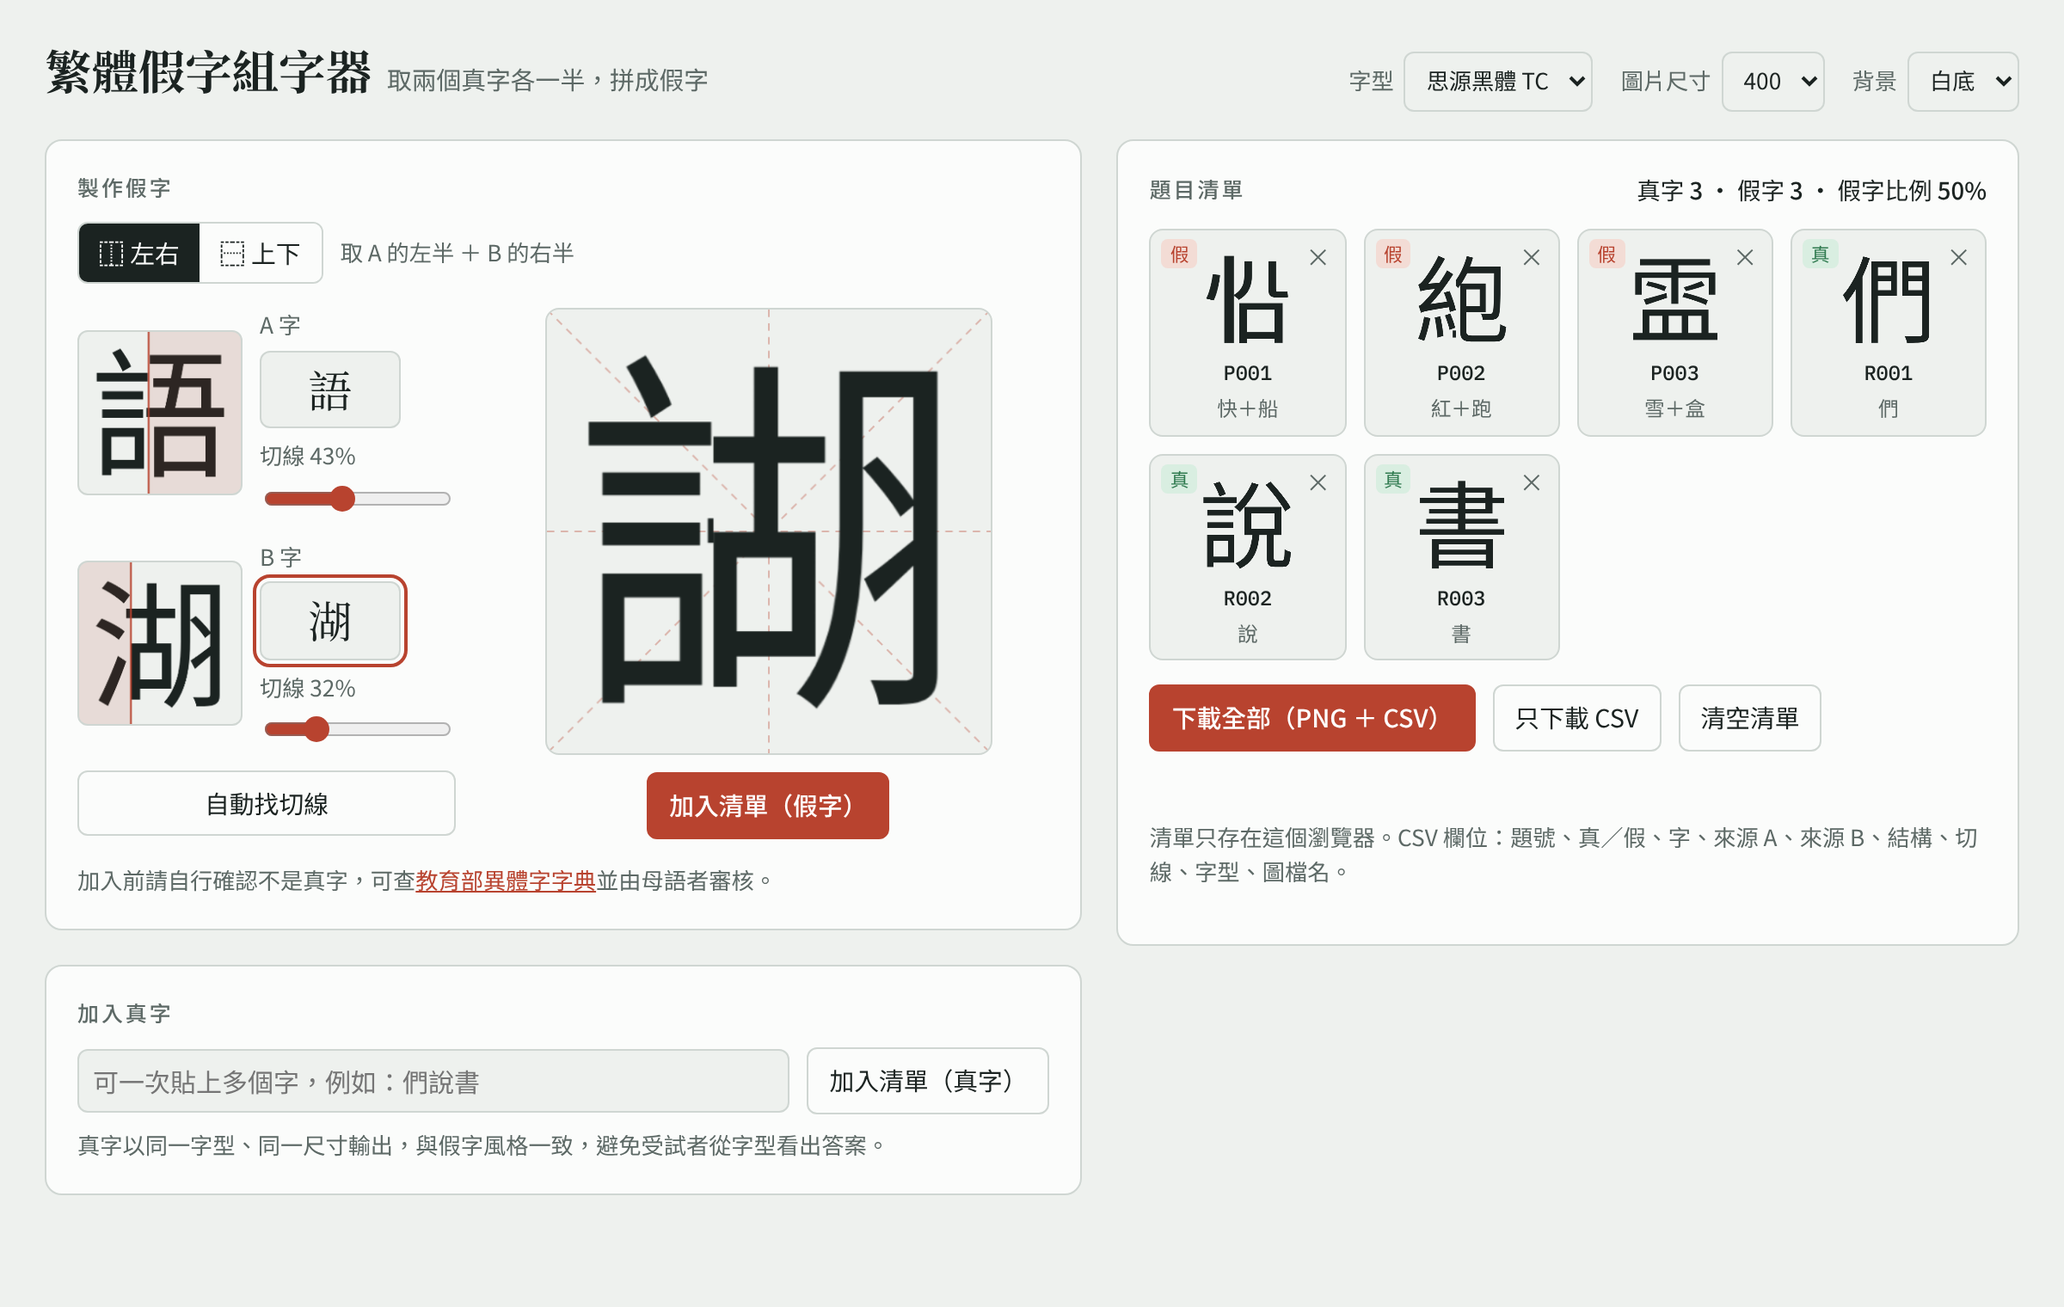
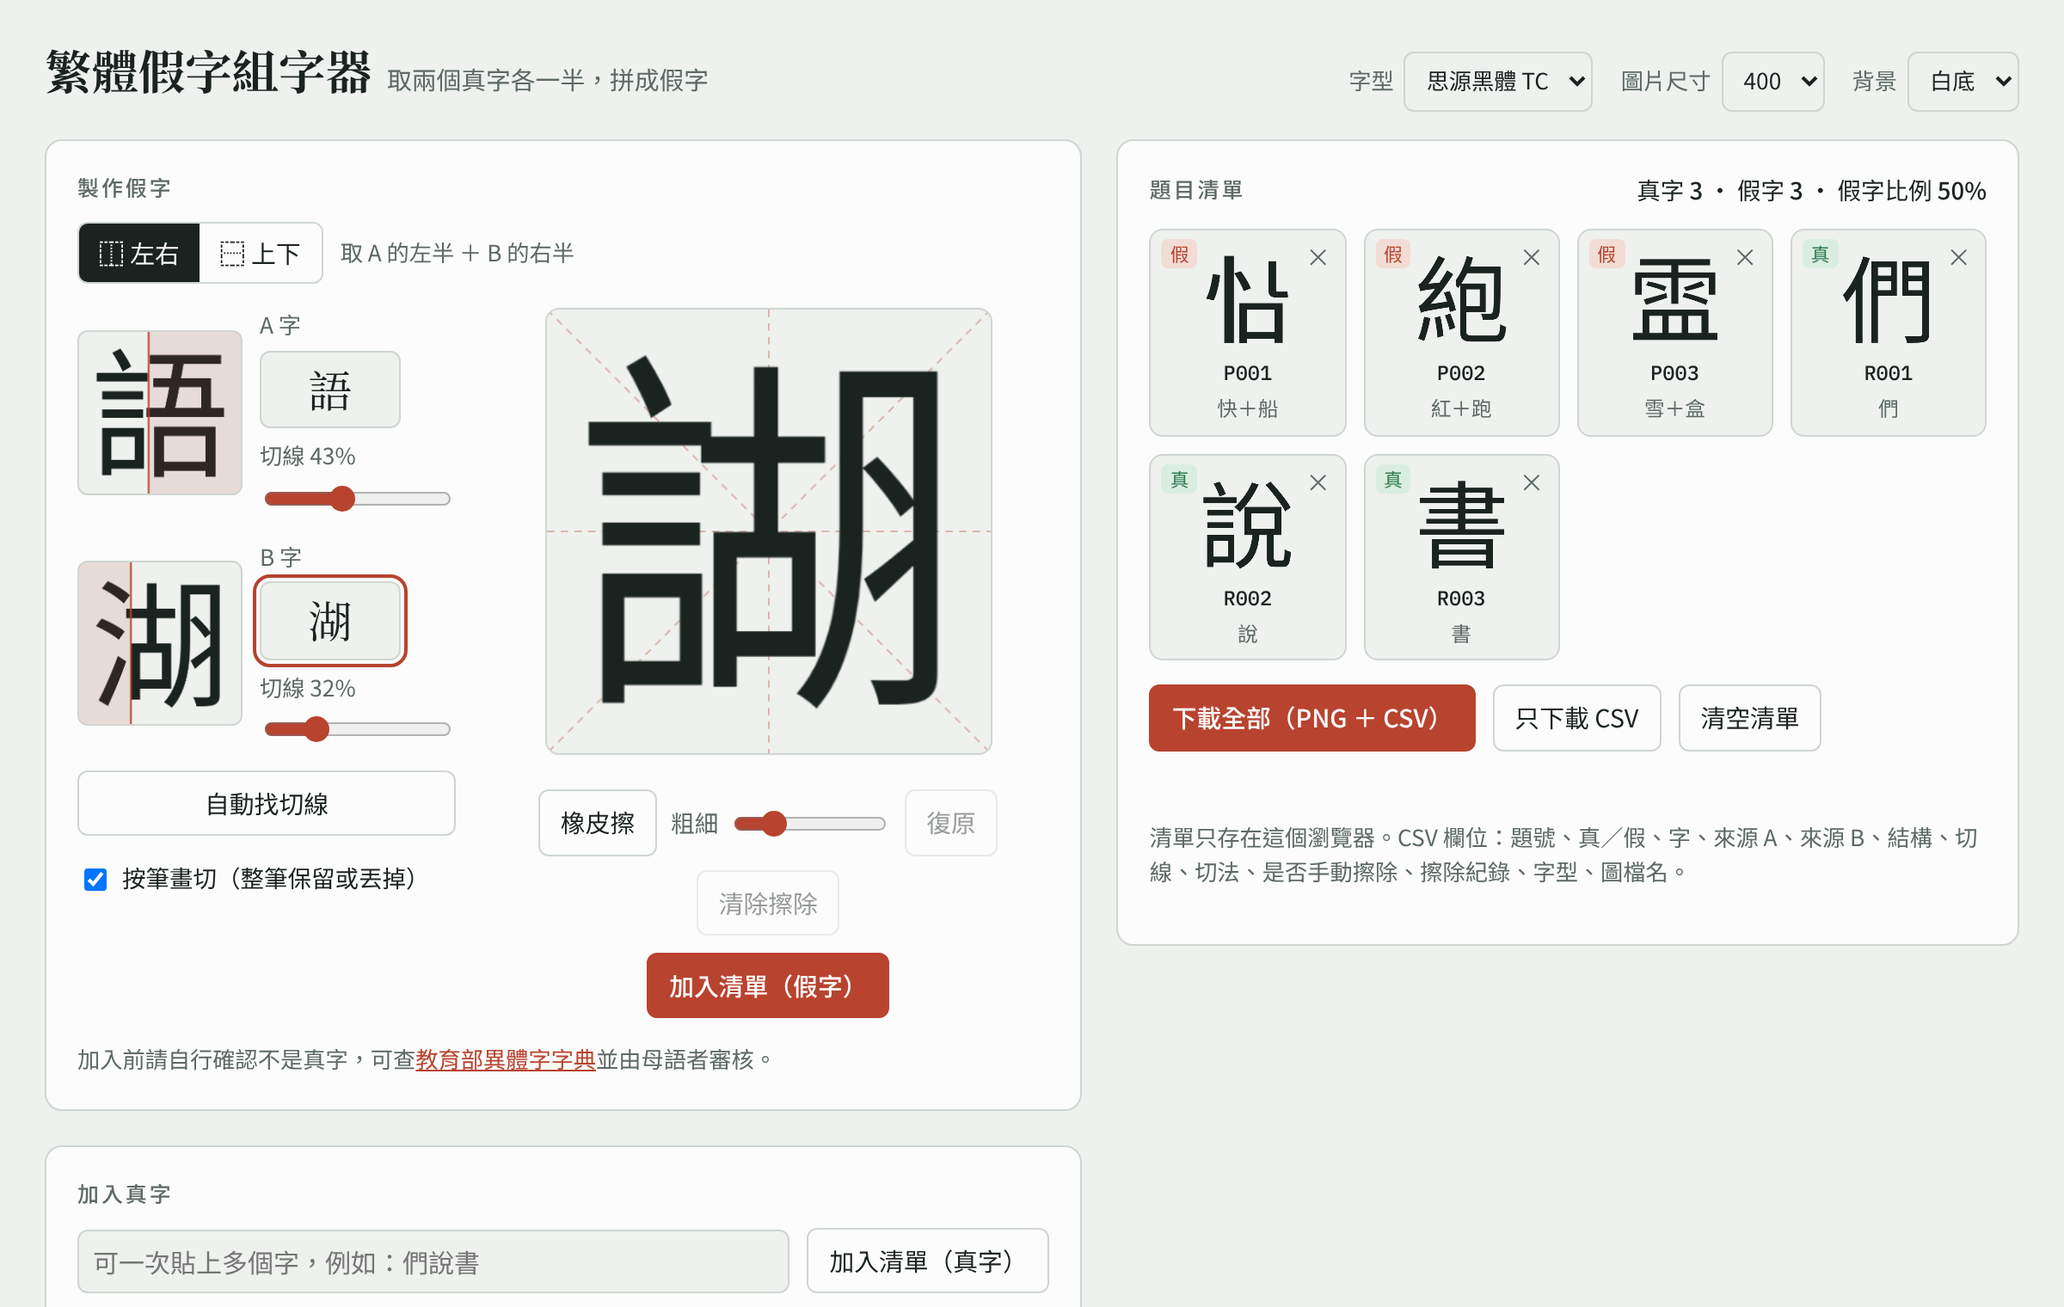
Pseudo-character maker: stroke cutting and eraser
Keep or drop each connected group of strokes whole instead of cutting
along a straight line, which removes fragments of the other component.
Warn when the cut passes through touching strokes. Add an eraser whose
strokes are saved with each item so exports are reproducible; record
cut mode and manual edits in the CSV.

Claude-Session: https://claude.ai/code/session_014HhAB2MiJ58BCttPMnsCBy

diff --git a/stimuli/tools/pseudo-character-maker/index.html b/stimuli/tools/pseudo-character-maker/index.html
@@ -79,6 +79,11 @@ details summary{cursor:pointer;font-size:.85rem;color:var(--muted)}
 .item .del{position:absolute;top:2px;right:2px;border:0;background:none;padding:2px 6px;color:var(--muted)}
 .item.flag{border-color:var(--zhu)}
 .empty{border:1px dashed var(--line);border-radius:8px;padding:22px;text-align:center;color:var(--muted);font-size:.9rem}
+.tools{display:flex;flex-wrap:wrap;gap:8px;align-items:center;justify-content:center}
+.tools input[type=range]{width:90px}
+.tools button[aria-pressed=true]{background:var(--ink);color:var(--sheet);border-color:var(--ink)}
+#cvOut.erasing{cursor:crosshair;touch-action:none}
+.check{display:flex;flex-direction:row;align-items:center;gap:6px;font-size:.86rem;color:var(--ink)}
 .status{min-height:1.4em;font-size:.86rem;color:var(--muted)}
 @media (prefers-reduced-motion:no-preference){button{transition:border-color .15s}}
 </style>
@@ -126,9 +131,17 @@ details summary{cursor:pointer;font-size:.85rem;color:var(--muted)}
               </div>
             </div>
             <button id="auto">自動找切線</button>
+            <label class="check"><input id="cutStroke" type="checkbox" checked> 按筆畫切（整筆保留或丟掉）</label>
           </div>
           <div class="out">
             <canvas id="cvOut" width="520" height="520" aria-label="組合結果"></canvas>
+            <div id="cutWarn"></div>
+            <div class="tools" role="group" aria-label="橡皮擦">
+              <button id="eraser" aria-pressed="false">橡皮擦</button>
+              <label class="check" style="color:var(--muted)">粗細<input id="brush" type="range" min="4" max="40" value="12"></label>
+              <button id="undoErase">復原</button>
+              <button id="clearErase">清除擦除</button>
+            </div>
             <button class="primary" id="addPseudo">加入清單（假字）</button>
           </div>
         </div>
@@ -157,7 +170,7 @@ details summary{cursor:pointer;font-size:.85rem;color:var(--muted)}
         <button id="clear">清空清單</button>
       </div>
       <div class="status" id="status" role="status" style="margin-top:8px"></div>
-      <p class="note">清單只存在這個瀏覽器。CSV 欄位：題號、真／假、字、來源 A、來源 B、結構、切線、字型、圖檔名。</p>
+      <p class="note">清單只存在這個瀏覽器。CSV 欄位：題號、真／假、字、來源 A、來源 B、結構、切線、切法、是否手動擦除、擦除紀錄、字型、圖檔名。</p>
     </section>
   </div>
 </div>
@@ -169,7 +182,7 @@ const $ = id => document.getElementById(id);
 const BIN = '⿰⿱⿴⿵⿶⿷⿸⿹⿺⿻', TER = '⿲⿳';
 const FONTS = { sans: '"Noto Sans TC"', serif: '"Noto Serif TC"' };
 const S = 400;
-const state = { struct: 'lr', font: 'sans', items: [], seq: { P: 0, R: 0 } };
+const state = { struct: 'lr', font: 'sans', items: [], seq: { P: 0, R: 0 }, erase: [], erasing: false };
 let downloads = null;
 
 // ---------- persistence (per-viewer convenience) ----------
@@ -205,13 +218,67 @@ function autoCut(ch, side) {
   for (let i = lo; i <= hi; i++) if (p[i] <= tol) cand.push(i);
   return Math.round(cand[Math.floor(cand.length / 2)] / S * 100);
 }
+// Keep the A (first) or B (second) side of a glyph.
+// mode 'stroke': every connected group of ink is kept or dropped whole, by which side most of it lies on;
+// only a group that lies clearly on both sides (two parts whose strokes touch) is cut along the line.
+// mode 'line': plain straight cut (items made before stroke cutting existed).
+const kcache = new Map();
+function kept(ch, cutPct, first, struct, mode) {
+  const key = [state.font, ch, cutPct, first, struct, mode].join('|'); if (kcache.has(key)) return kcache.get(key);
+  const src = glyph(ch), cut = cutPct / 100 * S, vert = struct === 'tb';
+  const img = src.getContext('2d', { willReadFrequently: true }).getImageData(0, 0, S, S), d = img.data;
+  const pos = i => vert ? (i / S | 0) : i % S;
+  const onKeep = i => first ? pos(i) < cut : pos(i) >= cut;
+  let mixed = 0;
+  if (mode === 'line') { for (let i = 0; i < S * S; i++) if (!onKeep(i)) d[i * 4 + 3] = 0; }
+  else {
+    const lab = new Int32Array(S * S), stack = [], decide = [0];
+    let n = 0;
+    for (let i0 = 0; i0 < S * S; i0++) {
+      if (lab[i0] || d[i0 * 4 + 3] <= 8) continue;
+      n++; lab[i0] = n; stack.push(i0); let tot = 0, keepPx = 0;
+      while (stack.length) {
+        const i = stack.pop(); tot++; if (onKeep(i)) keepPx++;
+        const x = i % S, y = i / S | 0;
+        for (let dy = -1; dy <= 1; dy++) for (let dx = -1; dx <= 1; dx++) {
+          const nx = x + dx, ny = y + dy; if (nx < 0 || ny < 0 || nx >= S || ny >= S) continue;
+          const j = ny * S + nx; if (!lab[j] && d[j * 4 + 3] > 8) { lab[j] = n; stack.push(j); }
+        }
+      }
+      const f = keepPx / tot;
+      decide[n] = f >= 0.8 ? 1 : f <= 0.2 ? 0 : 2; // 1 keep, 0 drop, 2 cut along the line
+      if (decide[n] === 2) mixed += Math.min(keepPx, tot - keepPx);
+    }
+    for (let i = 0; i < S * S; i++) {
+      const L = lab[i], k = L ? decide[L] : 2;
+      if (k === 0 || (k === 2 && !onKeep(i))) d[i * 4 + 3] = 0;
+    }
+  }
+  const c = document.createElement('canvas'); c.width = c.height = S; c.getContext('2d').putImageData(img, 0, 0);
+  const r = { c, mixed }; kcache.set(key, r); return r;
+}
+function applyErase(x, strokes) {
+  if (!strokes || !strokes.length) return;
+  x.save(); x.globalCompositeOperation = 'destination-out'; x.lineCap = x.lineJoin = 'round'; x.strokeStyle = x.fillStyle = '#000';
+  for (const st of strokes) {
+    x.lineWidth = st.r * 2; x.beginPath();
+    st.p.forEach(([px, py], i) => i ? x.lineTo(px, py) : x.moveTo(px, py));
+    if (st.p.length === 1) { x.arc(st.p[0][0], st.p[0][1], st.r, 0, Math.PI * 2); x.fill(); } else x.stroke();
+  }
+  x.restore();
+}
 // composite at S×S (black ink on transparent)
 function compose(it) {
   const c = document.createElement('canvas'); c.width = c.height = S; const x = c.getContext('2d');
   if (it.kind === 'real') { x.drawImage(glyph(it.ch), 0, 0); return c; }
-  const ga = glyph(it.a), gb = glyph(it.b), ca = it.cutA / 100 * S, cb = it.cutB / 100 * S, j = (ca + cb) / 2;
-  if (it.struct === 'lr') { x.drawImage(ga, 0, 0, ca, S, 0, 0, j, S); x.drawImage(gb, cb, 0, S - cb, S, j, 0, S - j, S); }
-  else { x.drawImage(ga, 0, 0, S, ca, 0, 0, S, j); x.drawImage(gb, 0, cb, S, S - cb, 0, j, S, S - j); }
+  const mode = it.cutMode || 'line';
+  const ka = kept(it.a, it.cutA, true, it.struct, mode), kb = kept(it.b, it.cutB, false, it.struct, mode);
+  const ca = it.cutA / 100 * S, cb = it.cutB / 100 * S, j = (ca + cb) / 2;
+  const sa = j / ca, sb = (S - j) / (S - cb), ob = j - cb * sb;
+  if (it.struct === 'lr') { x.drawImage(ka.c, 0, 0, S * sa, S); x.drawImage(kb.c, ob, 0, S * sb, S); }
+  else { x.drawImage(ka.c, 0, 0, S, S * sa); x.drawImage(kb.c, 0, ob, S, S * sb); }
+  applyErase(x, it.erase);
+  c.mixed = [ka.mixed, kb.mixed];
   return c;
 }
 function tint(src, color) {
@@ -243,7 +310,7 @@ function exportCanvas(it) {
 
 // ---------- editor ----------
 const firstChar = v => Array.from(v.trim())[0] || '';
-function cur() { return { kind: 'pseudo', a: firstChar($('inA').value), b: firstChar($('inB').value), struct: state.struct, cutA: +$('cutA').value, cutB: +$('cutB').value }; }
+function cur() { return { kind: 'pseudo', a: firstChar($('inA').value), b: firstChar($('inB').value), struct: state.struct, cutA: +$('cutA').value, cutB: +$('cutB').value, cutMode: $('cutStroke').checked ? 'stroke' : 'line', erase: state.erase.map(e => ({ r: e.r, p: e.p.slice() })) }; }
 function refresh() {
   const it = cur();
   $('cutA-l').textContent = `切線 ${it.cutA}%`; $('cutB-l').textContent = `切線 ${it.cutB}%`;
@@ -251,11 +318,16 @@ function refresh() {
   if (!it.a || !it.b) { $('addPseudo').disabled = true; return; }
   paint($('cvA'), glyph(it.a), { cut: it.cutA, keep: 0 });
   paint($('cvB'), glyph(it.b), { cut: it.cutB, keep: 1 });
-  paint($('cvOut'), compose(it), { grid: true });
+  const out = compose(it); paint($('cvOut'), out, { grid: true });
+  const [ma, mb] = out.mixed, w = $('cutWarn');
+  const bad = [ma > 40 ? `A「${it.a}」` : '', mb > 40 ? `B「${it.b}」` : ''].filter(Boolean);
+  w.innerHTML = '';
+  if (bad.length) { const s = document.createElement('span'); s.className = 'chip warn'; s.textContent = `切線穿過${bad.join('、')}相連的筆畫，該處仍是直線切，可換來源字或用橡皮擦`; w.append(s); }
+  $('undoErase').disabled = $('clearErase').disabled = !state.erase.length;
   $('addPseudo').disabled = false;
 }
 function setStruct(s) {
-  state.struct = s; $('st-lr').setAttribute('aria-pressed', s === 'lr'); $('st-tb').setAttribute('aria-pressed', s === 'tb'); doAuto();
+  state.struct = s; state.erase = []; $('st-lr').setAttribute('aria-pressed', s === 'lr'); $('st-tb').setAttribute('aria-pressed', s === 'tb'); doAuto();
 }
 function doAuto() { const a = firstChar($('inA').value), b = firstChar($('inB').value); if (a) $('cutA').value = autoCut(a); if (b) $('cutB').value = autoCut(b); refresh(); }
 
@@ -275,7 +347,7 @@ function renderList() {
       const cv = document.createElement('canvas'); cv.width = cv.height = 128; paint(cv, compose(it));
       const id = document.createElement('div'); id.className = 'id'; id.textContent = it.id;
       const meta = document.createElement('div'); meta.className = 'meta';
-      meta.textContent = it.kind === 'real' ? it.ch : `${it.a}＋${it.b}`;
+      meta.textContent = it.kind === 'real' ? it.ch : `${it.a}＋${it.b}` + (it.erase && it.erase.length ? ' ・ 手動' : '');
       if (it.kind === 'pseudo') { cv.style.cursor = 'pointer'; cv.title = '載入編輯區'; cv.onclick = () => loadIntoEditor(it); }
       d.append(k, del, cv, id, meta); g.append(d);
     }
@@ -286,7 +358,8 @@ function renderList() {
 function loadIntoEditor(it) {
   $('inA').value = it.a; $('inB').value = it.b; state.struct = it.struct;
   $('st-lr').setAttribute('aria-pressed', it.struct === 'lr'); $('st-tb').setAttribute('aria-pressed', it.struct === 'tb');
-  $('cutA').value = it.cutA; $('cutB').value = it.cutB; refresh();
+  $('cutA').value = it.cutA; $('cutB').value = it.cutB;
+  $('cutStroke').checked = (it.cutMode || 'line') === 'stroke'; state.erase = (it.erase || []).map(e => ({ r: e.r, p: e.p.slice() })); refresh();
 }
 const pad = n => String(n).padStart(3, '0');
 function addPseudo() {
@@ -305,11 +378,11 @@ function status(t) { $('status').textContent = t; }
 
 // ---------- export ----------
 function csvText() {
-  const rows = [['item_id', 'lexicality', 'char', 'source_a', 'source_b', 'structure', 'cut_a', 'cut_b', 'font', 'image']];
+  const rows = [['item_id', 'lexicality', 'char', 'source_a', 'source_b', 'structure', 'cut_a', 'cut_b', 'cut_mode', 'manual_edit', 'erase_strokes', 'font', 'image']];
   const fontName = state.font === 'sans' ? 'Noto Sans TC' : 'Noto Serif TC';
   for (const it of state.items) rows.push(it.kind === 'real'
-    ? [it.id, 'real', it.ch, '', '', '', '', '', fontName, it.id + '.png']
-    : [it.id, 'pseudo', '', it.a, it.b, it.struct === 'lr' ? '⿰' : '⿱', it.cutA, it.cutB, fontName, it.id + '.png']);
+    ? [it.id, 'real', it.ch, '', '', '', '', '', '', 'no', '', fontName, it.id + '.png']
+    : [it.id, 'pseudo', '', it.a, it.b, it.struct === 'lr' ? '⿰' : '⿱', it.cutA, it.cutB, it.cutMode || 'line', it.erase && it.erase.length ? 'yes' : 'no', it.erase && it.erase.length ? JSON.stringify(it.erase) : '', fontName, it.id + '.png']);
   return '' + rows.map(r => r.map(v => /[",\n]/.test(String(v)) ? `"${String(v).replace(/"/g, '""')}"` : v).join(',')).join('\n');
 }
 async function offer(filename, data) {
@@ -330,16 +403,27 @@ async function ensureFont(text) {
   try { await document.fonts.load(`400 64px ${fam()}`, text); } catch (e) {}
 }
 async function rerenderAll() {
-  gcache.clear(); await ensureFont($('inA').value + $('inB').value + state.items.map(i => i.kind === 'real' ? i.ch : i.a + i.b).join(''));
+  gcache.clear(); kcache.clear(); await ensureFont($('inA').value + $('inB').value + state.items.map(i => i.kind === 'real' ? i.ch : i.a + i.b).join(''));
   refresh(); renderList();
 }
 
 // ---------- wire up ----------
 load(); $('font').value = state.font;
 $('st-lr').onclick = () => setStruct('lr'); $('st-tb').onclick = () => setStruct('tb');
-['inA', 'inB'].forEach(id => $(id).addEventListener('input', async () => { await ensureFont($('inA').value + $('inB').value); doAuto(); }));
+['inA', 'inB'].forEach(id => $(id).addEventListener('input', async () => { state.erase = []; await ensureFont($('inA').value + $('inB').value); doAuto(); }));
 ['cutA', 'cutB'].forEach(id => $(id).addEventListener('input', refresh));
 $('auto').onclick = doAuto;
+$('cutStroke').onchange = refresh;
+// eraser: strokes are stored in composite (S×S) coordinates so the image can be regenerated exactly
+const cvOut = $('cvOut'); let drawing = null;
+const toS = e => { const r = cvOut.getBoundingClientRect(); return [Math.round((e.clientX - r.left) / r.width * S * 10) / 10, Math.round((e.clientY - r.top) / r.height * S * 10) / 10]; };
+$('eraser').onclick = () => { state.erasing = !state.erasing; $('eraser').setAttribute('aria-pressed', state.erasing); cvOut.classList.toggle('erasing', state.erasing); };
+cvOut.addEventListener('pointerdown', e => { if (!state.erasing) return; e.preventDefault(); cvOut.setPointerCapture(e.pointerId); drawing = { r: +$('brush').value / 2, p: [toS(e)] }; state.erase.push(drawing); refresh(); });
+cvOut.addEventListener('pointermove', e => { if (!drawing) return; drawing.p.push(toS(e)); refresh(); });
+const endDraw = () => { drawing = null; };
+cvOut.addEventListener('pointerup', endDraw); cvOut.addEventListener('pointercancel', endDraw);
+$('undoErase').onclick = () => { state.erase.pop(); refresh(); };
+$('clearErase').onclick = () => { state.erase = []; refresh(); };
 $('addPseudo').onclick = addPseudo;
 $('addReal').onclick = addReal;
 $('inReal').addEventListener('keydown', e => { if (e.key === 'Enter') addReal(); });

diff --git a/stimuli/tools/pseudo-character-maker/README.md b/stimuli/tools/pseudo-character-maker/README.md
@@ -12,9 +12,11 @@ A pseudo-character is built by joining half of one real character with half of a
 
 1. Choose a structure: left-right (⿰) or top-bottom (⿱).
 2. Enter two real characters, A and B.
-3. The tool renders both in the same font and cuts each one. For left-right, it keeps the left part of A and the right part of B; for top-bottom, the top of A and the bottom of B.
+3. The tool renders both in the same font and splits each one at a cut position. For left-right, it keeps the left part of A and the right part of B; for top-bottom, the top of A and the bottom of B.
 4. By default the cut is placed automatically at the column (or row) with the least ink between 28% and 72% of the glyph width. A slider adjusts each cut by hand.
-5. The two kept parts are scaled to meet at the midpoint of the two cut positions and drawn into one glyph.
+5. Stroke cutting (on by default): the glyph is split into connected groups of ink. A group with at least 80% of its pixels on the kept side is kept whole; one with at most 20% is dropped whole. Only a group that lies clearly on both sides, where the two parts' strokes touch, is cut along the straight line, and the tool shows a warning. This removes the small fragments and half-cut strokes that a straight cut leaves behind. Turning it off gives a plain straight cut.
+6. The two kept parts are scaled to meet at the midpoint of the two cut positions and drawn into one glyph.
+7. Eraser (optional): any remaining residue can be erased by hand on the preview. Each eraser stroke is saved with the item (brush radius and points, in 400 x 400 glyph coordinates), so the image is regenerated exactly on every export and the edit is recorded in the CSV.
 
 Example: 語 + 湖 keeps 訁 from 語 and 胡 from 湖, giving a left-right character ⿰言胡.
 
@@ -40,6 +42,9 @@ The item list can be downloaded as a ZIP containing one PNG per item and an `ite
 | `source_a`, `source_b` | The two source characters |
 | `structure` | `⿰` or `⿱` |
 | `cut_a`, `cut_b` | Cut positions, as a percentage of the glyph size |
+| `cut_mode` | `stroke` (stroke cutting) or `line` (straight cut) |
+| `manual_edit` | `yes` if the eraser was used |
+| `erase_strokes` | Eraser strokes as JSON: `[{"r": radius, "p": [[x, y], ...]}]` |
 | `font` | Font used for rendering |
 | `image` | PNG file name |
 
@@ -54,5 +59,6 @@ The item list is stored in the browser's local storage only.
 ## Limitations
 
 - Only left-right and top-bottom structures are supported; enclosing structures (such as 國 or 問) are not.
-- Characters with interlocking strokes may not have a clean cut line and can need manual adjustment or a different source character.
+- When the two parts of a source character touch, stroke cutting falls back to a straight cut for that group of strokes. Use a different source character or the eraser.
+- Eraser strokes are tied to the font and cut positions. Changing the font or the cuts of an erased item can make the erased areas miss.
 - Fonts are loaded from Google Fonts, so rendering depends on that service. For final stimuli, the font files should be pinned locally and their license confirmed for release under CC BY.
